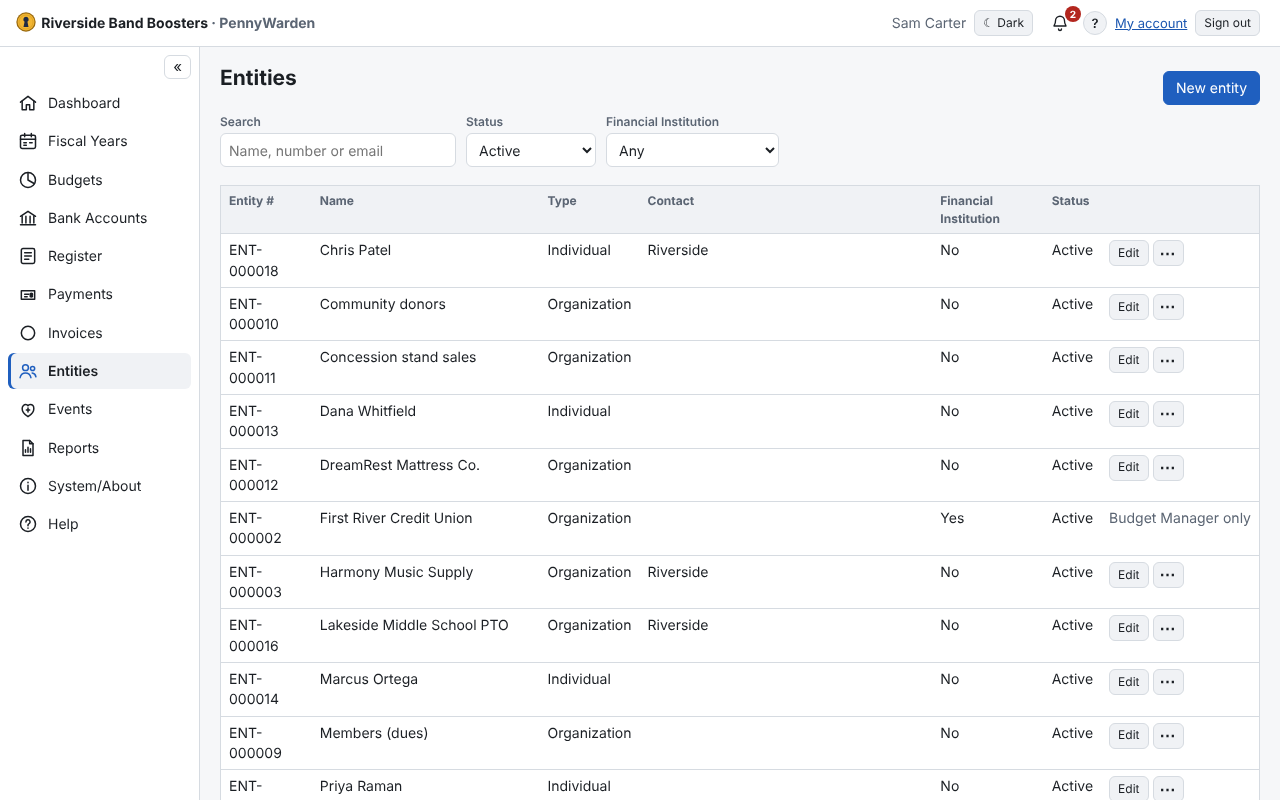
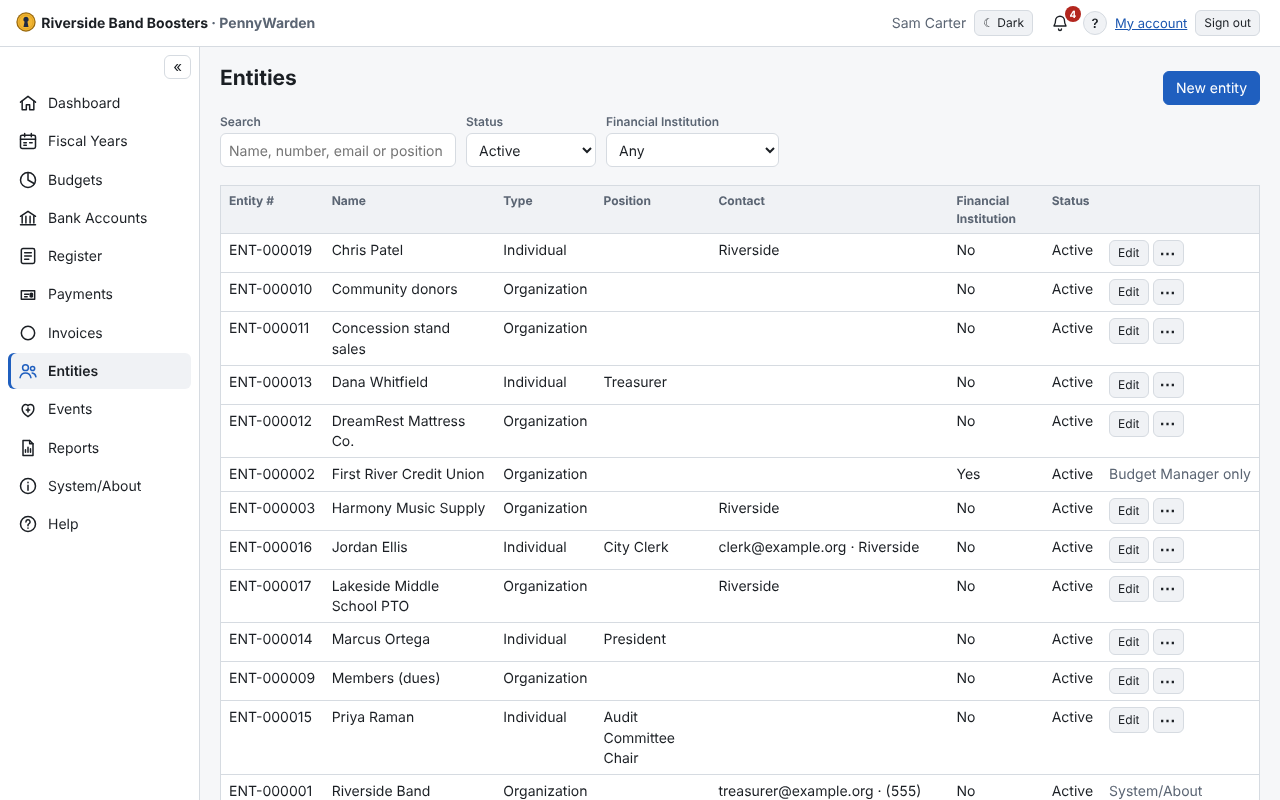
Entities: Position column in the list; Search also finds the position (#551)
Kyle (2026-11-09): with reminder tasks naming contacts by position, the
Entities list shows each person's position and its Search (and the API's
?search=) matches the position as well as name, number and email. The entity
number no longer wraps. Guide text and entities.png updated.

Refs #551

Claude-Session: https://claude.ai/code/session_01ChupEtP27XhQLaoY8jrQcc

diff --git a/frontend/src/pages/Entities.tsx b/frontend/src/pages/Entities.tsx
@@ -31,21 +31,22 @@ export default function Entities() {
         {manage ? <button className="primary" onClick={() => setEdit({ ...EMPTY })}>New entity</button> : null}
       </div>
       <div className="filters">
-        <Field label="Search"><input value={filter.search} onChange={(e) => setFilter({ ...filter, search: e.target.value })} placeholder="Name, number or email" /></Field>
+        <Field label="Search"><input value={filter.search} onChange={(e) => setFilter({ ...filter, search: e.target.value })} placeholder="Name, number, email or position" /></Field>
         <Field label="Status"><select value={filter.status} onChange={(e) => setFilter({ ...filter, status: e.target.value })}><option value="active">Active</option><option value="inactive">Inactive</option><option value="all">All</option></select></Field>
         <Field label="Financial Institution"><select value={filter.fi} onChange={(e) => setFilter({ ...filter, fi: e.target.value })}><option value="">Any</option><option value="true">Financial Institutions</option><option value="false">Other entities</option></select></Field>
       </div>
       <ErrorBox error={err} />
       {!list ? <Loading /> : (
         <table className="table">
-          <thead><tr><th>Entity #</th><th>Name</th><th>Type</th><th>Contact</th><th>Financial Institution</th><th>Status</th>{manage ? <th /> : null}</tr></thead>
+          <thead><tr><th>Entity #</th><th>Name</th><th>Type</th><th>Position</th><th>Contact</th><th>Financial Institution</th><th>Status</th>{manage ? <th /> : null}</tr></thead>
           <tbody>
-            {list.length === 0 ? <tr><td colSpan={7} className="muted">No entities.</td></tr> : null}
+            {list.length === 0 ? <tr><td colSpan={8} className="muted">No entities.</td></tr> : null}
             {[...list].sort((a, b) => entitySortKey(a).localeCompare(entitySortKey(b))).map((e) => {
               const locked = e.is_financial_institution && !canFi;
               return (
                 <tr key={e.id} className={e.active ? "" : "inactive"}>
-                  <td>{e.entity_number}</td><td>{entityName(e)}{e.display_name !== e.name && e.name ? <span className="muted"> ({e.name})</span> : null}{e.is_organization ? <> <span className="badge green" data-testid="org-badge">Your organization</span></> : null}</td><td>{e.entity_type === "INDIVIDUAL" ? "Individual" : "Organization"}</td>
+                  <td className="nowrap">{e.entity_number}</td><td>{entityName(e)}{e.display_name !== e.name && e.name ? <span className="muted"> ({e.name})</span> : null}{e.is_organization ? <> <span className="badge green" data-testid="org-badge">Your organization</span></> : null}</td><td>{e.entity_type === "INDIVIDUAL" ? "Individual" : "Organization"}</td>
+                  <td data-testid="entity-position">{e.position || ""}</td>{/* 2.4.0 (#551): reminder tasks find people by position */}
                   <td>{[e.email, e.phone_display || e.phone, e.city].filter(Boolean).join(" · ")}</td>
                   <td>{e.is_financial_institution ? "Yes" : "No"}</td><td>{e.active ? "Active" : "Inactive"}</td>
                   {manage ? (

diff --git a/frontend/e2e/poc.spec.ts b/frontend/e2e/poc.spec.ts
@@ -2703,6 +2703,11 @@ test("#551: reminder tasks - steps ticked one at a time, contacts by position, a
   const post = await apiAs(page);
   expect((await post("/api/entities", { entity_type: "INDIVIDUAL", primary_contact: "Casey Clerk", position: "City Clerk",
     email: "casey@example.org", confirmations: ["DUPLICATE_ENTITY"] })).status()).toBe(201);
+  // the Entities list shows the position, and Search finds it
+  await page.getByRole("link", { name: "Entities" }).click();
+  await page.getByPlaceholder("Name, number, email or position").fill("city clerk");
+  await expect(page.locator("table tbody tr").filter({ hasText: "Casey Clerk" }).getByTestId("entity-position")).toHaveText("City Clerk");
+  await expect(page.locator("table tbody tr")).toHaveCount(1);
   await page.getByRole("link", { name: /Notifications/ }).click();
   await page.getByRole("button", { name: "New reminder" }).click();
   let dlg = page.getByRole("dialog", { name: "New reminder" });

diff --git a/frontend/src/styles.css b/frontend/src/styles.css
@@ -374,6 +374,7 @@ td.ua { max-width: 320px; overflow: hidden; text-overflow: ellipsis; white-space
 .reminder-resolved { opacity: 0.85; }
 .reminder-main { display: grid; gap: 2px; }
 /* 2.4.0 (#551): reminder tasks */
+.nowrap { white-space: nowrap; }
 .reminder-tasks { margin-top: 4px; }
 .task-list { margin: 4px 0 0; padding-left: 20px; display: grid; gap: 4px; }
 .task .check { display: inline-flex; gap: 6px; align-items: center; margin-right: 6px; }

diff --git a/backend/fmpoc/routers/entities.py b/backend/fmpoc/routers/entities.py
@@ -37,7 +37,8 @@ def list_entities(
         q = q.where(or_(Entity.organization_name.ilike(like, escape="\\"), Entity.first_name.ilike(like, escape="\\"),
                         Entity.last_name.ilike(like, escape="\\"), full.ilike(like, escape="\\"),
                         Entity.display_name_custom.ilike(like, escape="\\"),
-                        Entity.entity_number.ilike(like, escape="\\"), Entity.email.ilike(like, escape="\\")))
+                        Entity.entity_number.ilike(like, escape="\\"), Entity.email.ilike(like, escape="\\"),
+                        Entity.position.ilike(like, escape="\\")))     # 2.4.0 (#551): and the position
     col = SORTS[sort]
     q = q.order_by(col.desc() if direction == "desc" else col.asc(), Entity.id).limit(limit)
     return [svc.out(e) for e in db.scalars(q)]

diff --git a/backend/tests/test_v240_reminder_tasks.py b/backend/tests/test_v240_reminder_tasks.py
@@ -244,3 +244,11 @@ def test_function_ids_match_the_frontend():
                              (src / "pages/reports/registry.ts").read_text().split("export const REPORTS")[1], re.M))
     pages = set(re.findall(r'id: "(page:[a-z-]+)"', (src / "functions.ts").read_text()))
     assert FUNCTION_IDS == {f"report:{r}" for r in reports} | pages
+
+
+def test_entities_search_finds_people_by_position(env):
+    """2.4.0 (#551): the Entities search also looks at the position (and the list shows it)."""
+    person(env.ru, "Jane", "Doe", "City Clerk", "jane@example.org")
+    person(env.ru, "John", "Roe", "Treasurer")
+    found = env.bm.get("/api/entities?search=city%20cl").json()
+    assert [(e["first_name"], e["position"]) for e in found] == [("Jane", "City Clerk")]

diff --git a/docs/implementation-notes.md b/docs/implementation-notes.md
@@ -2640,6 +2640,8 @@ a module that is off (it works out which optional module would make the function
 has no access. A person picked by their position in a task's entity picker (`EntityPicker` reports `byPosition` when
 only the position matched) becomes *Whoever is <position>*, with *This person* offered back. Demo data
 (`scripts/demo_data.py`) has two reminders with steps and a City Clerk; the guide's `notifications.png` shows them.
+The Entities list has a **Position** column and `GET /api/entities?search=` also matches `entity.position` (Kyle,
+2026-11-09).
 Proposed:
 - **BR-REM-TASK-001** a reminder may have an ordered checklist of up to 25 tasks (one level), ticked in any order once
   the reminder is shown, by whoever may resolve it; each tick records who and when; the first open task is *Next*;

diff --git a/CHANGELOG.md b/CHANGELOG.md
@@ -178,7 +178,8 @@ PennyWarden 2.4.0 (in progress).
   **whoever holds a position** (e.g. City Clerk, so a new clerk is picked up automatically) — with their email, phone
   and mailing address, and can open a report or page (e.g. **End of Year Audit**) with one click. Steps stay editable
   while the reminder is shown. Existing reminders become reminders with just their objective: nothing changes until
-  steps are added.
+  steps are added. The **Entities** list now shows each person's **position**, and its **Search** finds entities by
+  position as well as name, number or email.
 
 ### Optional modules
 - **Turning a module on or off updates the menu at once (#482)** — no page reload (for the Administrator who changes

diff --git a/docs/guide/entities/add-entity.md b/docs/guide/entities/add-entity.md
@@ -3,7 +3,7 @@
    **organization name** is required; first and last name are its contact person).
 3. Optional: address, **mailing address** (untick *same as Address* for a P.O. Box), phone, email, notes, **EIN** for
    organizations, a **display name** (untick *Display name same as Name*) and a **Position in the organization** (used
-   as a signer's title).
+   as a signer's title, and by reminder tasks that name *whoever holds* a position).
 4. With the Invoices module on: **Tax-exempt customer** and its certificate number — see
    [Tax-exempt customers](../invoices/tax-exempt-customers.md).
 5. Choose **Save**.

diff --git a/docs/guide/entities/entities.md b/docs/guide/entities/entities.md
@@ -5,5 +5,7 @@ Entities are the people and organizations you pay or receive money from. Each ge
 
 - The register, lists and pickers use the **display name**; checks, letters, receipts, invoices and envelopes print the
   **name** and **mailing address**.
+- The list shows each person's **position**; **Search** finds entities by name, number, email or position (e.g.
+  *city clerk*).
 - **Inactivate** hides an entity from the pickers; its history stays and it can be restored.
 - Register Users, Invoice Managers and Budget Managers maintain entities; Budget Users and Auditors look.
